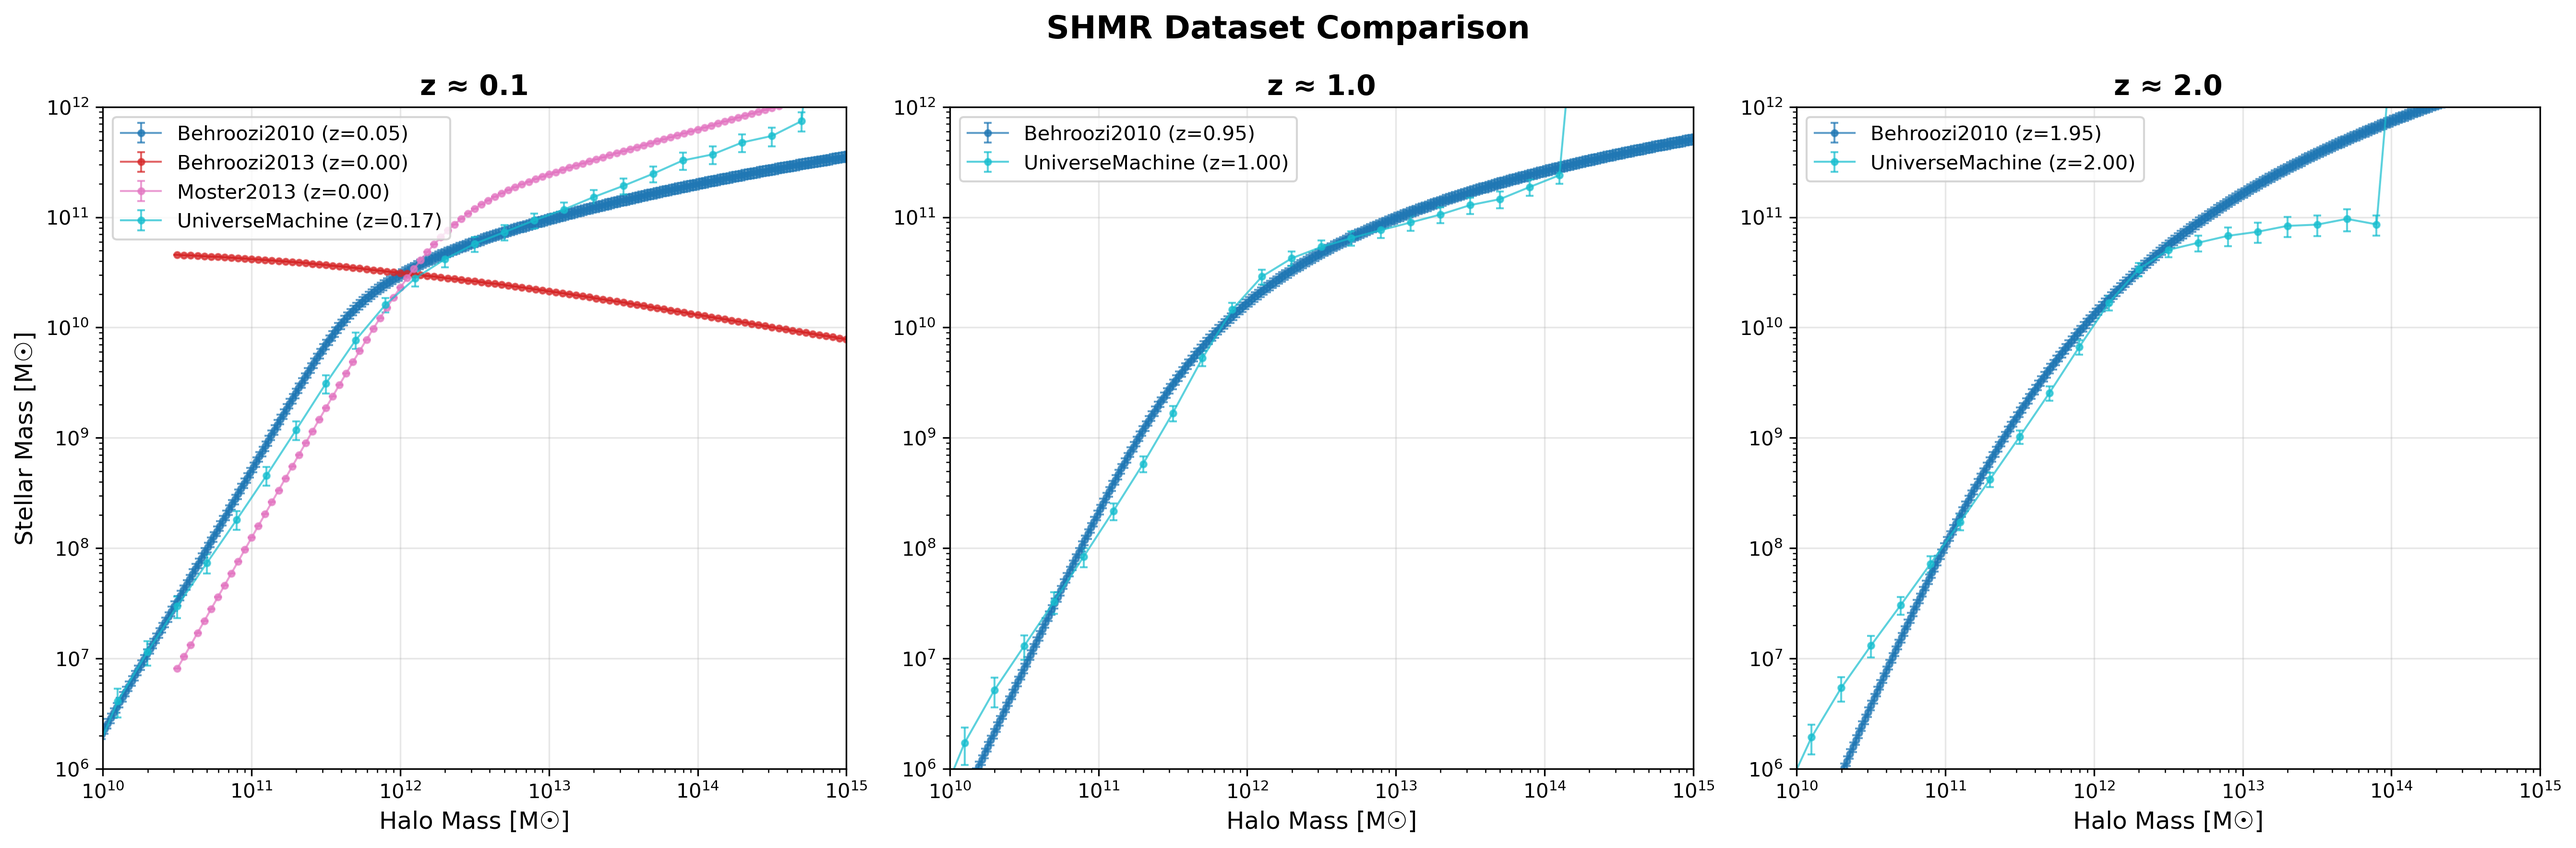
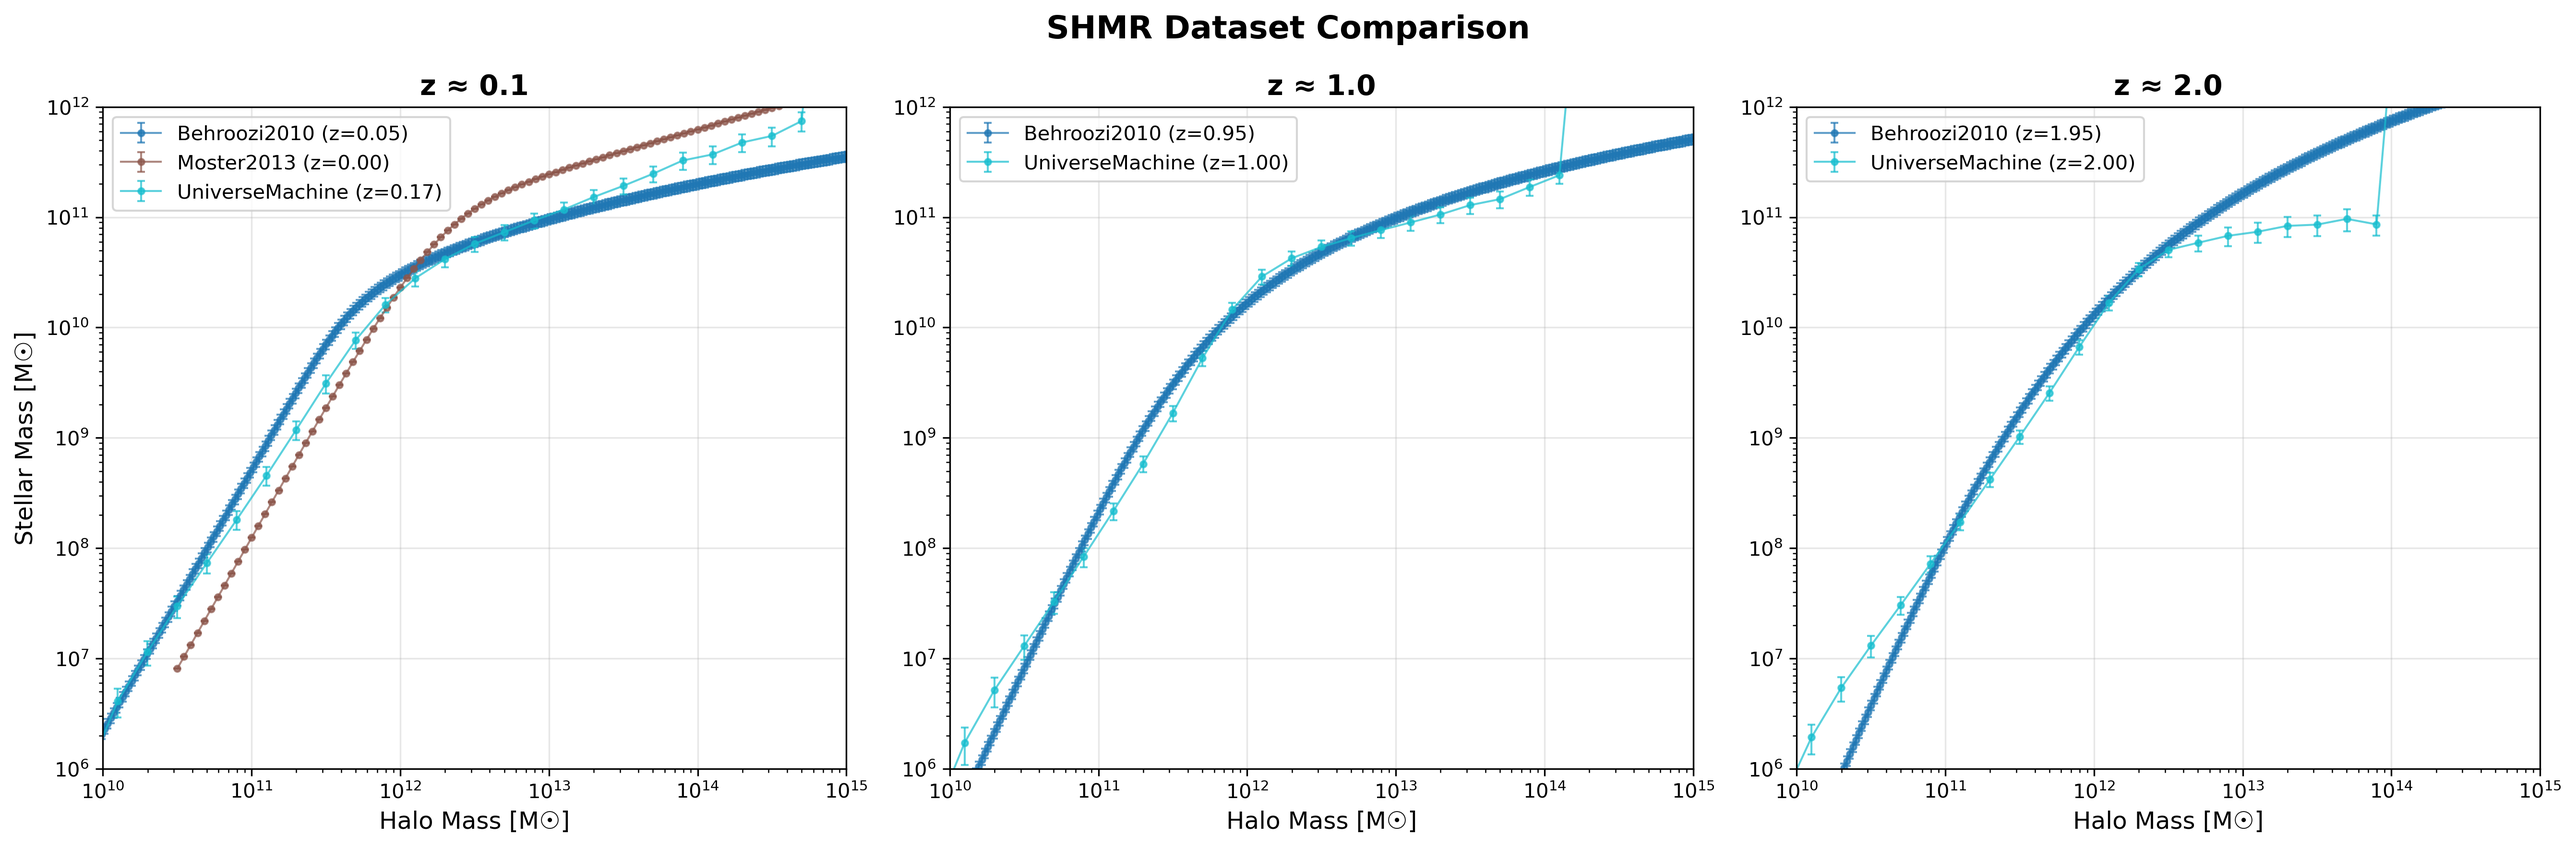
refactor: use single file definition in plot_shmr_comparison.py

Changed region(s): [[0.0311, 0.1245, 0.3112, 0.3424], [0.28, 0.3735, 0.3423, 0.4046], [0.2178, 0.3424, 0.28, 0.3735]]

diff --git a/scripts/plot_shmr_comparison.py b/scripts/plot_shmr_comparison.py
@@ -86,16 +86,15 @@ def load_shmr_at_redshift(filepath, target_redshift, tolerance=0.15):
         print(f"Error reading {filepath}: {e}")
         return None
 
+# Define files to compare
+files = [
+    '../data/theory/behroozi2010/behroozi2010_parametric.hdf5',
+    '../data/theory/moster2013/moster2013_z0_galacticus.hdf5',
+    '../data/simulations/universemachine/universemachine_downloaded.hdf5'
+]
+
 def plot_shmr_comparison():
     """Create comparison plots of SHMR datasets at different redshifts."""
-    
-    # Define files to compare
-    files = [
-        '../data/theory/behroozi2010/behroozi2010_parametric.hdf5',
-        '../data/theory/behroozi2013/behroozi2013_z0_galacticus.hdf5', 
-        '../data/theory/moster2013/moster2013_z0_galacticus.hdf5',
-        '../data/simulations/universemachine/universemachine_downloaded.hdf5'
-    ]
     
     # Target redshifts for comparison
     target_redshifts = [0.1, 1.0, 2.0]
@@ -183,12 +182,6 @@ def plot_shmr_comparison():
 
 def print_dataset_summary():
     """Print a summary of all available datasets."""
-    
-    files = [
-        'data/theory/behroozi2010/behroozi2010_parametric.hdf5',
-        'data/theory/moster2013/moster2013_z0_galacticus.hdf5',
-        'data/simulations/universemachine/universemachine_downloaded.hdf5'
-    ]
     
     print("\\n" + "="*60)
     print("SHMR DATASET SUMMARY")
